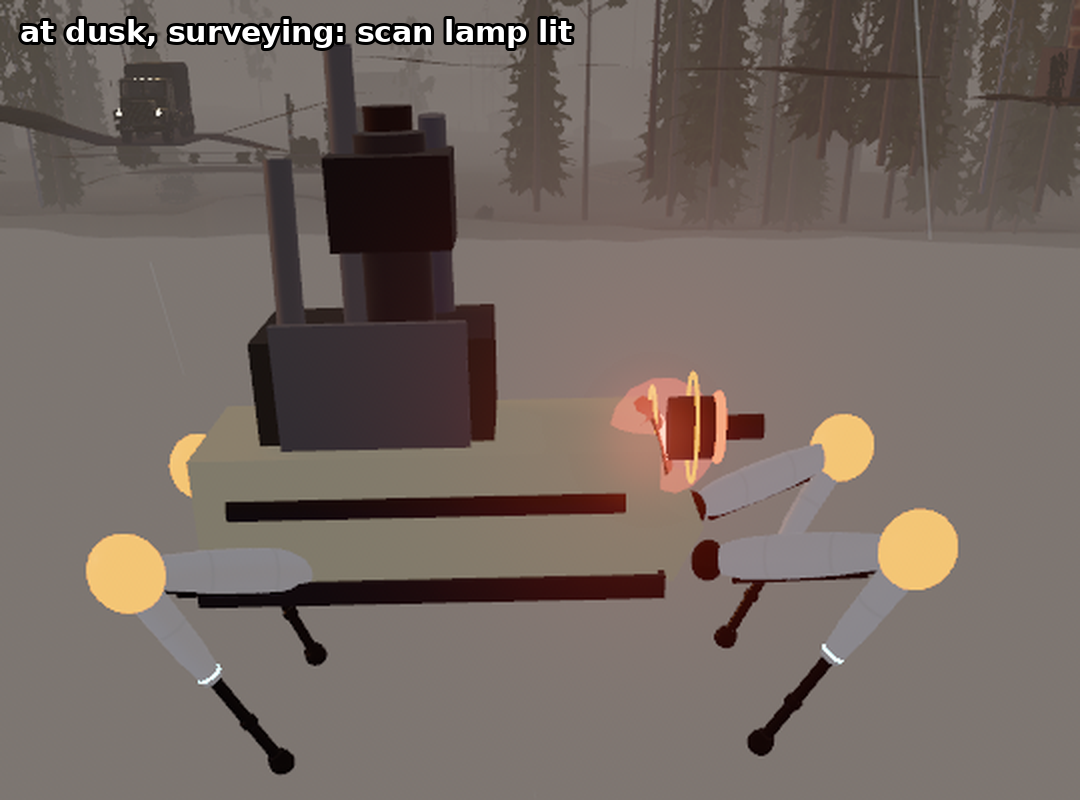
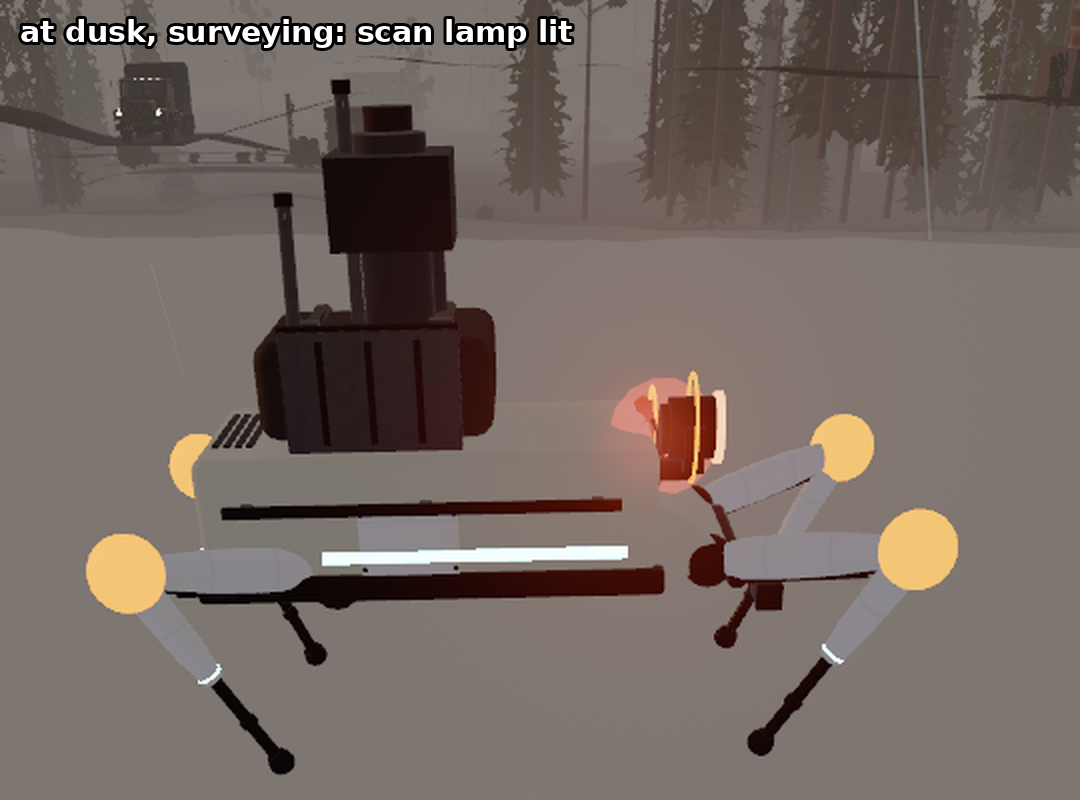
Docs: #98 stills on Models' engineer model
Claude-Session: https://claude.ai/code/session_01Ka1TLmCaYKYxaoCkbURtaJ

diff --git a/docs/shots/robot-bodies/README.md b/docs/shots/robot-bodies/README.md
@@ -327,7 +327,7 @@ The user on the #99 pictures: "Lights on fog look much prettier than that! Not l
 
 ## The engineer and its builds (#98)
 
-`robots::engineer_body` and `engineer_look`: the engineer, an unarmed worker on a walker's brain and feet (`Shape::Engineer`): a long, low, pale hull on four short legs, its kit bundled on its back with struts standing up out of it, and a scan lamp on a short arm at its front with the orange-red rim. `robots::builds`: what it builds, drawn in stages from the mind's progress. The seam (`Build`, `BuildReason`, `CameraAim`, `CameraCable`, `BarricadeStrap`/`Panel`, `CameraLens`, `ScanLamp`, `Hammering`) is agreed with Robot minds, who own the mind and rules. Silhouette gauge with the engineer in the family: passes, nearest the grappler at 0.51 (ceiling 0.7).
+`robots::engineer_body` and `engineer_look`, dressed from Models' walker.glb nodes (`engineer_hull`, `engineer_kit`, `engineer_lamp`, `engineer_hammer`; the procedural look only where one's missing): the engineer, an unarmed worker on a walker's brain and feet (`Shape::Engineer`): a long, low, pale hull on four short legs, its kit bundled on its back with struts standing up out of it, and a scan lamp on a short arm at its front with the orange-red rim. `robots::builds`: what it builds, drawn in stages from the mind's progress. The seam (`Build`, `BuildReason`, `CameraAim`, `CameraCable`, `BarricadeStrap`/`Panel`, `CameraLens`, `ScanLamp`, `Hammering`) is agreed with Robot minds, who own the mind and rules. Silhouette gauge with the engineer in the family: passes on the model, nearest the grappler at 0.52 (ceiling 0.7).
 
 | Picture | What it shows |
 |---|---|
